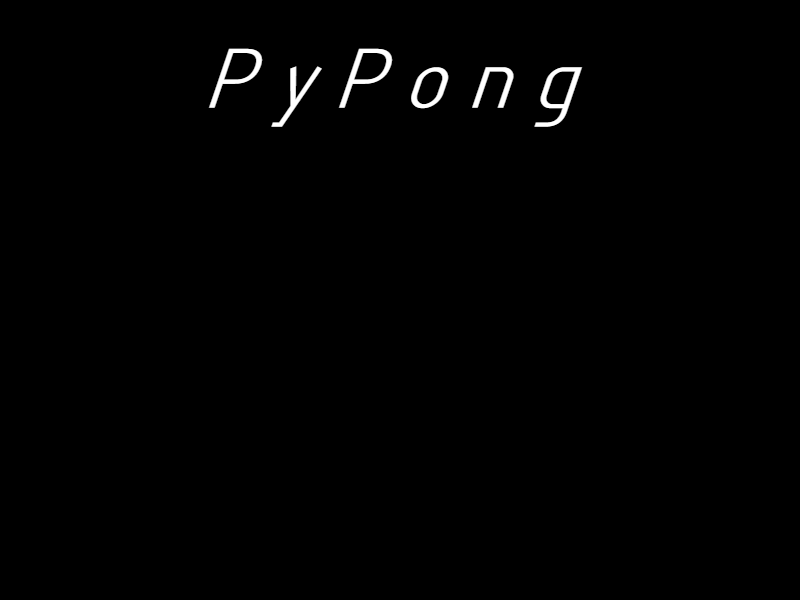
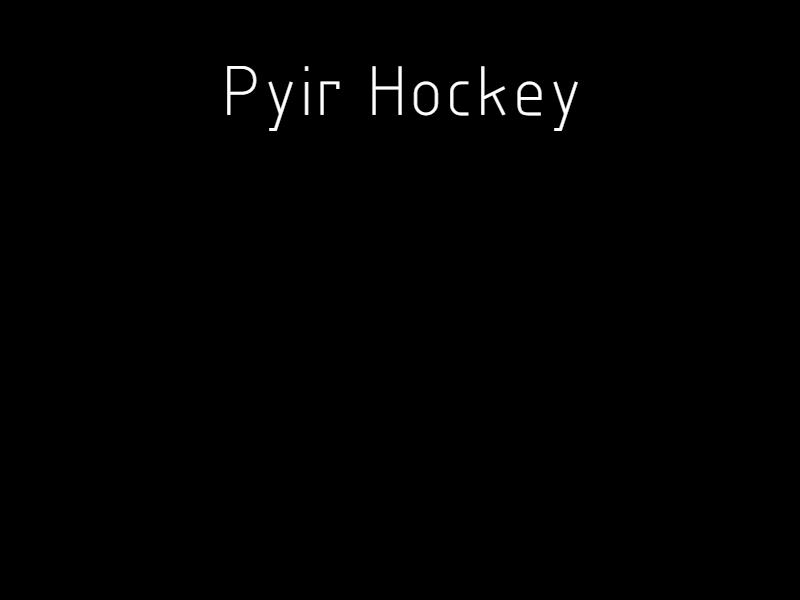
Changed theme

Changed region(s): [[0.25, 0.06, 0.75, 0.21]]

diff --git a/Test.py b/Test.py
@@ -27,6 +27,8 @@ class Scene:
         self.screen.blit(self.scale, (0, 0))
 
 
+
+
 class Game(Scene):
     def __init__(self):
         super().__init__(image="data/Board.png")
@@ -125,6 +127,24 @@ class Game(Scene):
 
         pygame.quit()
         quit()
+
+
+
+class Effects:
+    def __init__(self, image, scene):
+        self.scene = scene
+        self.image = pygame.image.load(image)
+        self.img = pygame.transform.scale(self.scene, (self.scene.width, self.scene.height))
+
+        self.scene.blit(self.scene, (0, 0))
+
+
+class DopplerEffect(Effects):
+    def __init__(self, delay):
+        super().__init__('data/Doppler.png')
+
+
+
 
 
 class Menu(Scene):
